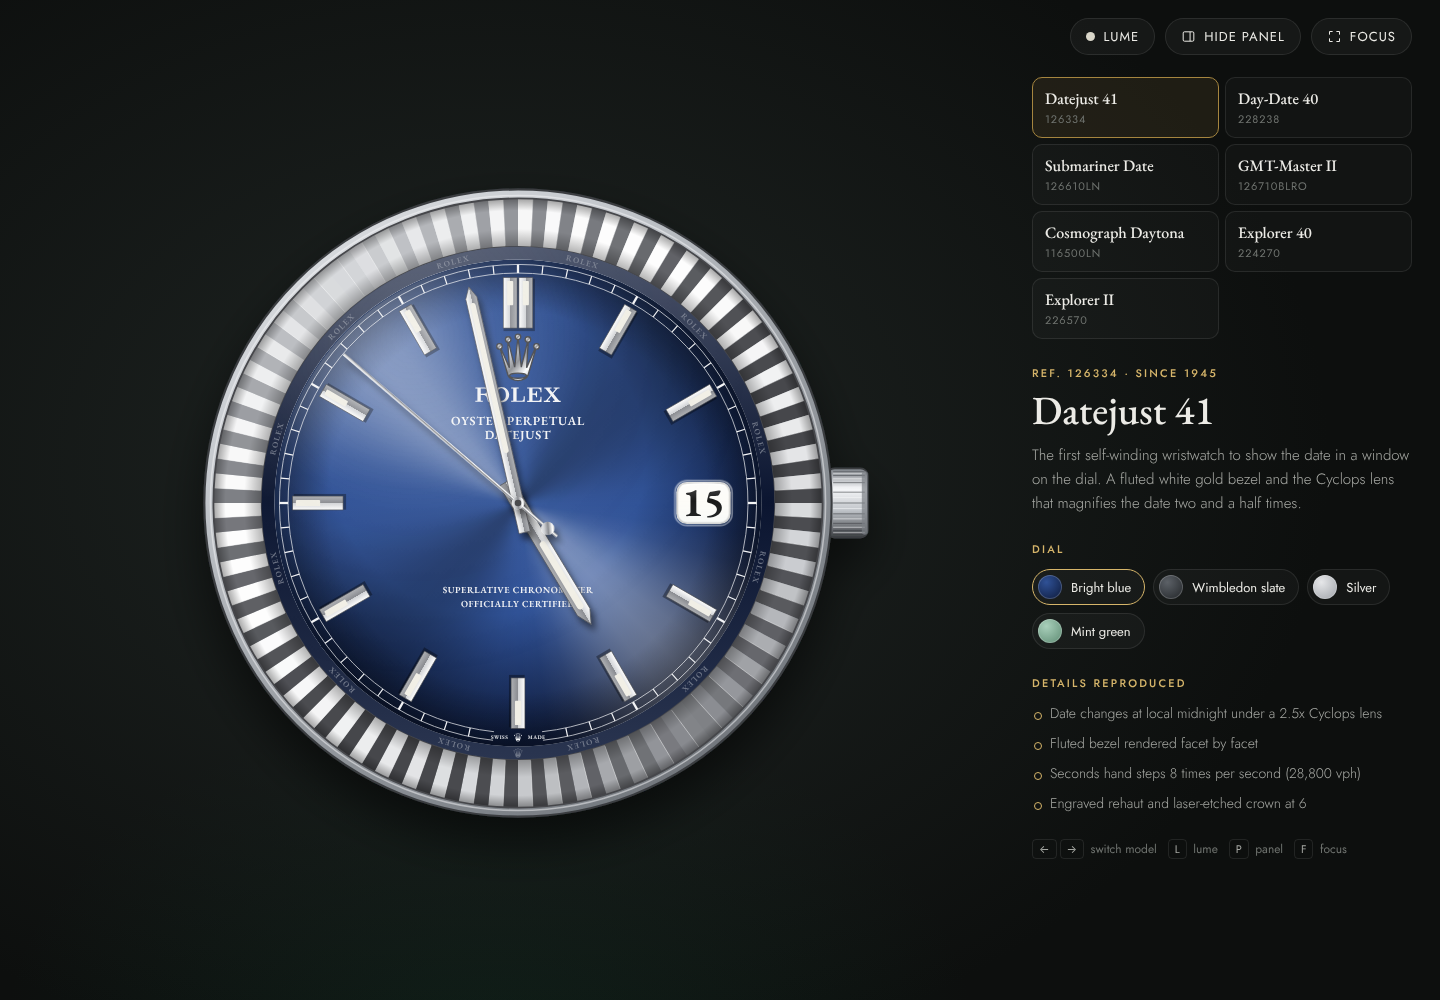
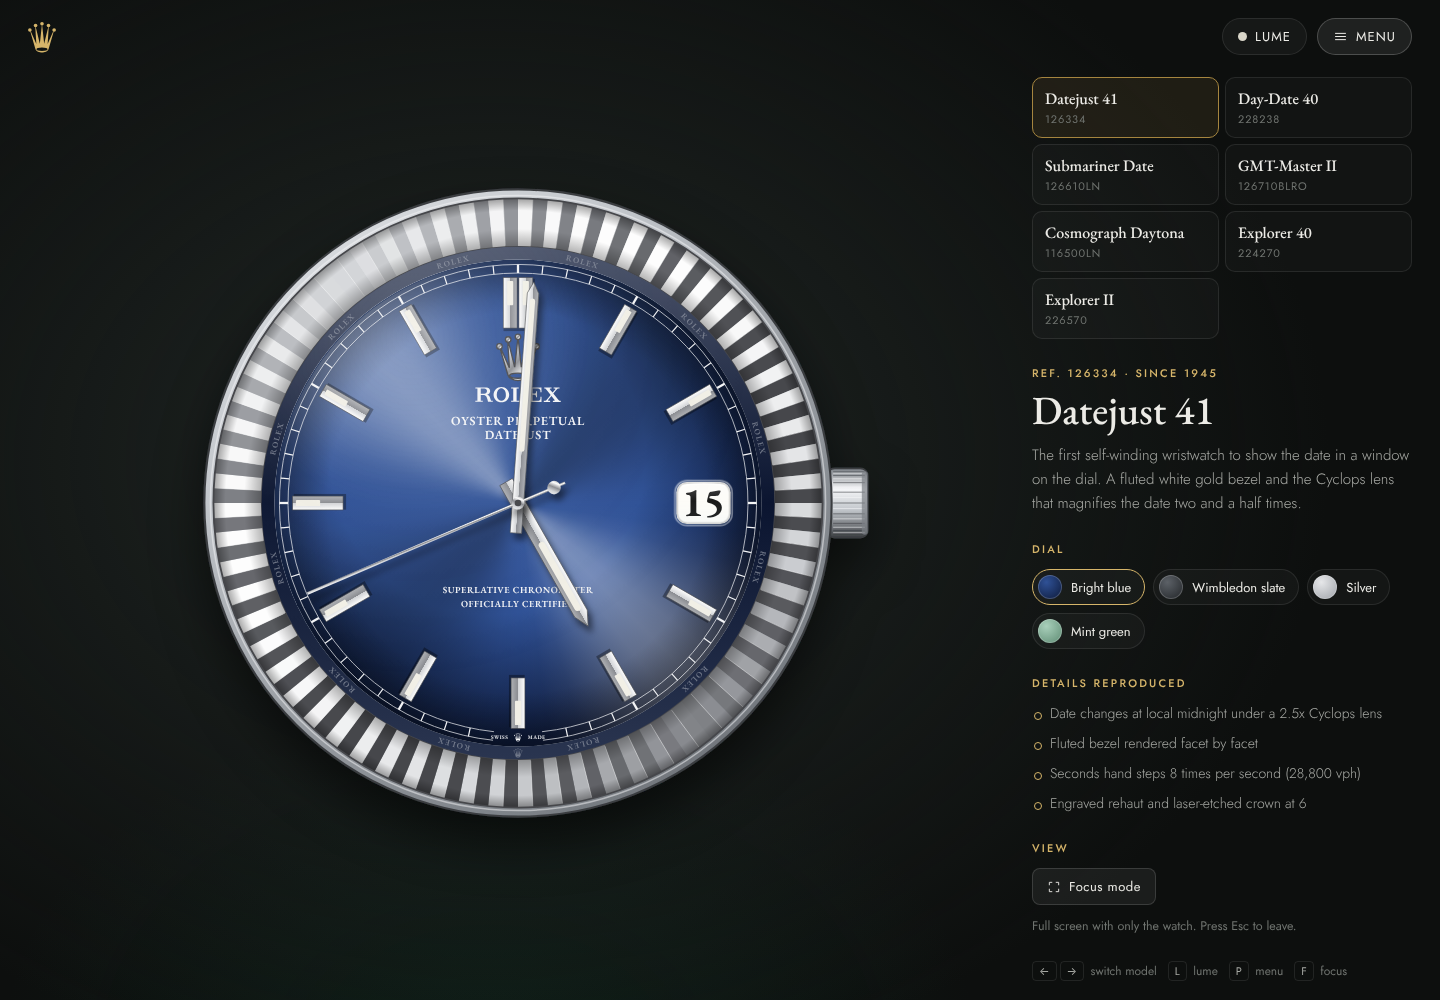
Start with the menu closed, add the crown logomark, move Focus into the menu
The panel toggle is now labelled Menu, the Focus button lives inside the
menu, and the Lume button keeps its label when switched on.

Claude-Session: https://claude.ai/code/session_01MR7uiZKYXyyZxiVebD44dd

diff --git a/index.html b/index.html
@@ -11,19 +11,16 @@
   <link href="https://fonts.googleapis.com/css2?family=Barlow:wght@500;600&family=EB+Garamond:wght@500;600;700;800&family=Jost:wght@300;400;500&display=swap" rel="stylesheet">
   <link rel="stylesheet" href="styles.css">
 </head>
-<body>
+<body class="panel-collapsed">
   <header class="topbar">
+    <span id="brand-crown" class="brand-crown" role="img" aria-label="Rolex crown"></span>
     <div class="top-actions">
       <button id="lume-toggle" class="pill" aria-pressed="false" title="Toggle luminescence (L)">
         <span class="lume-dot"></span><span class="lbl">Lume</span>
       </button>
-      <button id="panel-toggle" class="pill" aria-expanded="true" aria-controls="panel" title="Show or hide the panel (P)">
-        <svg viewBox="0 0 24 24" width="15" height="15" aria-hidden="true"><rect x="3.5" y="4.5" width="17" height="15" rx="2" fill="none" stroke="currentColor" stroke-width="1.6"/><path d="M14.5 4.5v15" stroke="currentColor" stroke-width="1.6"/></svg>
-        <span class="lbl">Hide panel</span>
-      </button>
-      <button id="fs-toggle" class="pill" title="Full screen (F)">
-        <svg viewBox="0 0 24 24" width="15" height="15" aria-hidden="true"><path d="M4 9V4h5M20 9V4h-5M4 15v5h5M20 15v5h-5" fill="none" stroke="currentColor" stroke-width="1.6"/></svg>
-        <span class="lbl">Focus</span>
+      <button id="panel-toggle" class="pill" aria-expanded="false" aria-controls="panel" title="Open or close the menu (P)">
+        <svg viewBox="0 0 24 24" width="15" height="15" aria-hidden="true"><path d="M4 7h16M4 12h16M4 17h16" fill="none" stroke="currentColor" stroke-width="1.6" stroke-linecap="round"/></svg>
+        <span class="lbl">Menu</span>
       </button>
     </div>
   </header>
@@ -54,7 +51,18 @@
         <ul id="features" class="features"></ul>
       </div>
 
-      <p class="keys"><kbd>&larr;</kbd><kbd>&rarr;</kbd> switch model &nbsp; <kbd>L</kbd> lume &nbsp; <kbd>P</kbd> panel &nbsp; <kbd>F</kbd> focus</p>
+      <div class="block">
+        <h2 class="eyebrow">View</h2>
+        <div class="btn-row">
+          <button id="fs-toggle" class="btn" title="Full screen (F)">
+            <svg viewBox="0 0 24 24" width="14" height="14" aria-hidden="true"><path d="M4 9V4h5M20 9V4h-5M4 15v5h5M20 15v5h-5" fill="none" stroke="currentColor" stroke-width="1.6"/></svg>
+            Focus mode
+          </button>
+        </div>
+        <p class="hint">Full screen with only the watch. Press Esc to leave.</p>
+      </div>
+
+      <p class="keys"><kbd>&larr;</kbd><kbd>&rarr;</kbd> switch model &nbsp; <kbd>L</kbd> lume &nbsp; <kbd>P</kbd> menu &nbsp; <kbd>F</kbd> focus</p>
     </aside>
   </main>
 

diff --git a/styles.css b/styles.css
@@ -35,7 +35,7 @@ button { font: inherit; color: inherit; cursor: pointer; }
 
 /* ---------- top bar ---------- */
 .topbar {
-  display: flex; align-items: center; justify-content: flex-end;
+  display: flex; align-items: center; justify-content: space-between;
   padding: 18px 28px;
 }
 .top-actions { display: flex; gap: 10px; }
@@ -45,6 +45,9 @@ button { font: inherit; color: inherit; cursor: pointer; }
   border-radius: 999px; padding: 8px 15px; font-size: 13px; letter-spacing: .08em; text-transform: uppercase;
   transition: background .2s, border-color .2s;
 }
+.brand-crown { color: var(--gold-hi); display: block; }
+.brand-crown svg { width: 28px; height: 32px; display: block; }
+.pill[aria-expanded="true"] { border-color: var(--gold); background: rgba(165, 133, 63, .14); }
 .pill:hover { background: rgba(255, 255, 255, .08); border-color: rgba(255, 255, 255, .2); }
 .lume-dot { width: 9px; height: 9px; border-radius: 50%; background: #d9d6c9; transition: all .4s; }
 .pill[aria-pressed="true"] { border-color: rgba(143, 220, 255, .5); }
@@ -163,6 +166,7 @@ select {
 }
 .btn-row { display: flex; gap: 8px; flex-wrap: wrap; }
 .btn {
+  display: inline-flex; align-items: center; gap: 8px;
   background: rgba(255, 255, 255, .06); border: 1px solid rgba(255, 255, 255, .14);
   border-radius: 8px; padding: 8px 14px; font-size: 13px; letter-spacing: .04em;
 }
@@ -210,7 +214,4 @@ body.focus .watch-svg { height: 88vh; }
   .topbar { padding: 14px 16px; }
   .models { grid-template-columns: repeat(2, 1fr); }
   .model-head h1 { font-size: 32px; }
-}
-@media (max-width: 420px) {
-  .pill .lbl { display: none; }
 }

diff --git a/js/app.js b/js/app.js
@@ -337,19 +337,17 @@
     state.night = on;
     document.body.classList.toggle('night', on);
     els.lumeBtn.setAttribute('aria-pressed', on);
-    els.lumeBtn.querySelector('.lbl').textContent = on ? 'Daylight' : 'Lume';
   }
   els.lumeBtn.addEventListener('click', () => setNight(!state.night));
 
-  // collapsible side panel, remembered per browser
+  // side menu: closed by default, remembered per browser
   function setPanel(open) {
     document.body.classList.toggle('panel-collapsed', !open);
     els.panelBtn.setAttribute('aria-expanded', open);
-    els.panelBtn.querySelector('.lbl').textContent = open ? 'Hide panel' : 'Show panel';
-    try { localStorage.setItem('panelOpen', open ? '1' : '0'); } catch (e) { /* storage unavailable */ }
+    try { localStorage.setItem('menuOpen', open ? '1' : '0'); } catch (e) { /* storage unavailable */ }
   }
   els.panelBtn.addEventListener('click', () => setPanel(document.body.classList.contains('panel-collapsed')));
-  try { if (localStorage.getItem('panelOpen') === '0') setPanel(false); } catch (e) { /* storage unavailable */ }
+  try { if (localStorage.getItem('menuOpen') === '1') setPanel(true); } catch (e) { /* storage unavailable */ }
 
   els.fsBtn.addEventListener('click', () => {
     if (document.fullscreenElement) document.exitFullscreen();
@@ -378,6 +376,9 @@
   }
   window.addEventListener('hashchange', () => { fromHash(); render(); });
 
+
+  // header crown mark
+  $('#brand-crown').innerHTML = `<svg viewBox="-14 -1 28 32" aria-hidden="true">${R.crownMark(0, 0, 28, 'currentColor')}</svg>`;
 
   fromHash();
   render();

diff --git a/README.md b/README.md
@@ -50,8 +50,8 @@ It also works as-is on GitHub Pages (Settings > Pages > deploy from the `main` b
 |---|---|
 | `←` `→` | Switch model |
 | `L` | Lume mode |
-| `P` | Show or hide the side panel |
-| `F` | Focus mode (watch only) |
+| `P` | Open or close the menu |
+| `F` | Focus mode, full screen with only the watch (also in the menu) |
 | `Space` | Start and stop the Daytona chronograph |
 
 The URL keeps your model and dial, so `index.html#gmt/pepsi` opens straight to the Pepsi.
